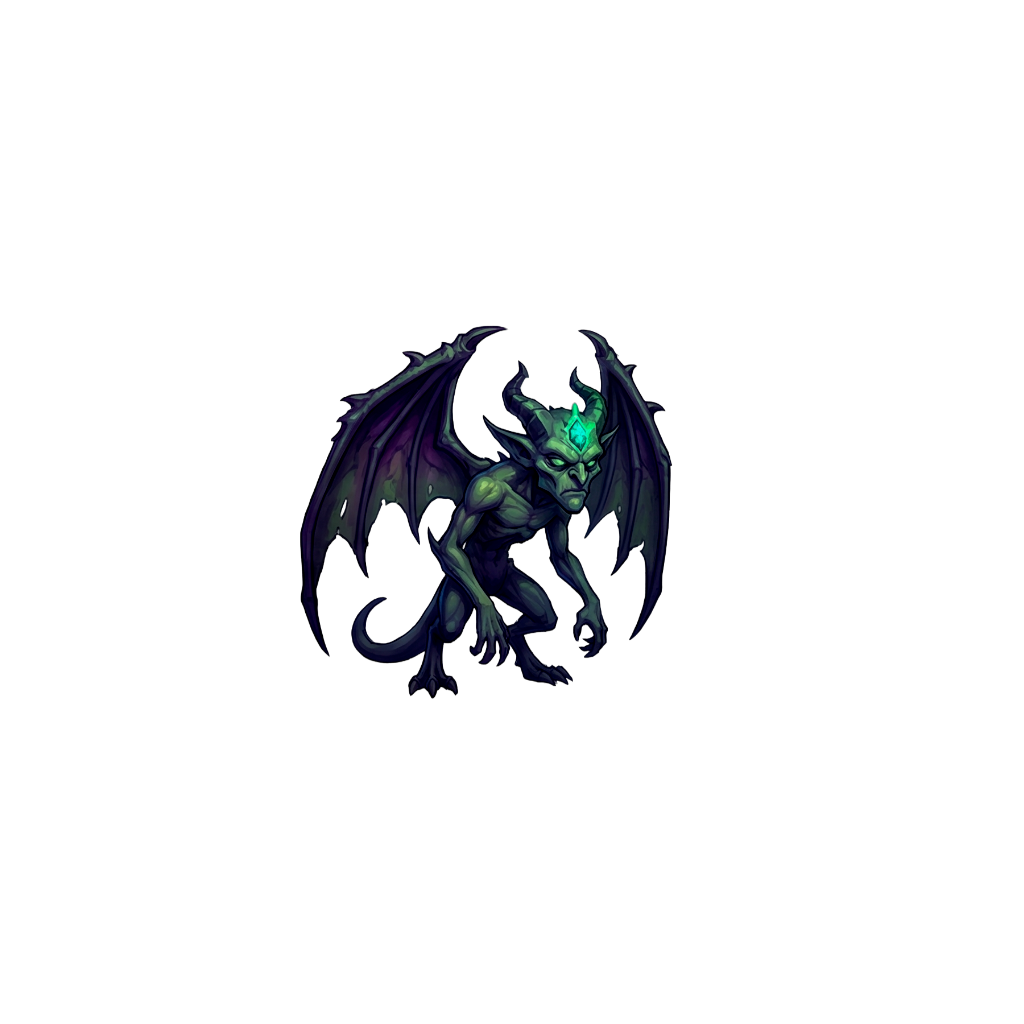
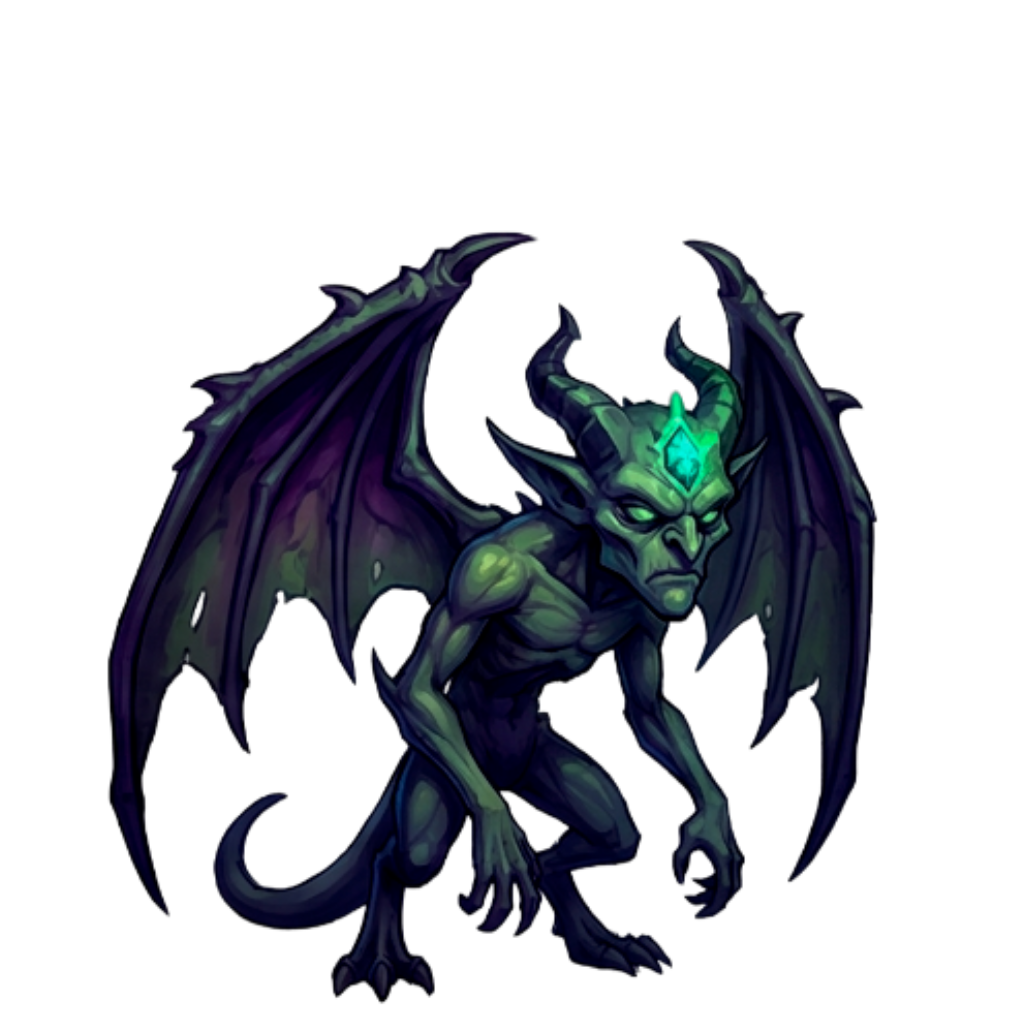
first pass at fixing size issue

Changed region(s): [[0.0938, 0.2188, 0.875, 0.9688], [0.1562, 0.875, 0.1875, 0.9062]]

diff --git a/src/main/resources/static/css/game.css b/src/main/resources/static/css/game.css
@@ -595,11 +595,9 @@ body::before{
 
 
 /* =========================================================
-   CREATURE + NEST (CHILD ONLY) — CLEAN + ALIGNED
-   Paste this where your current creature/nest section is.
+   CREATURE + NEST (CHILD ONLY) — CLEAN + STAGE-AWARE
    ========================================================= */
 
-/* Container that centers the creature stack */
 .creature-slot{
   position: absolute;
   inset: 0;
@@ -607,55 +605,56 @@ body::before{
   place-items: center;
   z-index: 5;
   pointer-events: none;
-
-  /* lifts whole stack a bit so it sits on the roof nicely */
-  padding-bottom: 40px; /* tweak 20–70 */
 }
 
-/* Creature */
+/* bob is on wrapper so transform is "owned" by bob */
+.creature-bob{
+  position: relative;
+  z-index: 6;
+  /* stage-wide lift control (works because it’s NOT transform) */
+  top: var(--creature-lift, 0px);
+}
+
+/* Sprite baseline */
 .creature-sprite{
-  width: 220px;          /* fixed baby size */
-  max-width: 70%;        /* still safe on small screens */
   height: auto;
   display: block;
   user-select: none;
   -webkit-user-drag: none;
 
+  /* keep this relative so we can nudge with top if ever needed */
   position: relative;
-  z-index: 6; /* above nest */
 
-  /* IMPORTANT: don't set transform here (bob animation uses transform) */
   filter:
     drop-shadow(0 18px 28px rgba(0,0,0,0.55))
     drop-shadow(0 0 18px rgba(155,92,255,0.18));
 }
 
+/* ---- Stage-specific sizing ---- */
+.creature--egg  { width: min(180px, 52%); }
+.creature--baby { width: min(220px, 60%); }
+.creature--child{ width: min(300px, 70%); }
+.creature--adult{ width: min(360px, 76%); }
 
-/* Nest wrapper (child only) — we position THIS, not the img */
+/* ---- Child nest placement ---- */
 .nest-wrap{
   position: absolute;
   left: 50%;
-
-  /* Put nest under the baby, not behind its head */
-  bottom: 1%;            /* tweak 2–10% */
+  bottom: 14%;               /* tweak 10–18% */
   transform: translateX(-50%);
-
-  width: min(320px, 74%); /* tweak 260–380px or % */
+  width: min(360px, 82%);
+  z-index: 4;
   display: grid;
   place-items: center;
 
-  z-index: 4;            /* behind creature */
-  pointer-events: none;
-
-  animation: nest-float 6.2s ease-in-out infinite;
-  will-change: transform, opacity, filter;
-
   filter:
-    drop-shadow(0 24px 28px rgba(0,0,0,0.55))
-    drop-shadow(0 0 26px rgba(36,214,255,0.14));
+    drop-shadow(0 26px 30px rgba(0,0,0,0.55))
+    drop-shadow(0 0 22px rgba(36,214,255,0.14));
+
+  animation: nest-float 5.2s ease-in-out infinite;
+  will-change: transform, opacity, filter;
 }
 
-/* Nest image */
 .nest-sprite{
   width: 100%;
   height: auto;
@@ -666,28 +665,28 @@ body::before{
   pointer-events: none;
 }
 
-/* Aura ring UNDER the nest */
+/* Magical aura ring under the nest */
 .nest-wrap::after{
   content:"";
   position:absolute;
   left: 50%;
-  bottom: -10%;
-  width: 72%;
-  height: 22%;
+  bottom: -8%;
+  width: 68%;
+  height: 18%;
   transform: translateX(-50%);
   border-radius: 999px;
-  background: radial-gradient(closest-side, rgba(155,92,255,0.38), transparent 72%);
-  filter: blur(10px);
+  background: radial-gradient(closest-side, rgba(155,92,255,0.35), transparent 70%);
+  filter: blur(8px);
   opacity: 0.75;
-  animation: aura-pulse 3.8s ease-in-out infinite;
+  animation: aura-pulse 3.6s ease-in-out infinite;
   pointer-events:none;
 }
 
-/* Sparkle dust around the nest */
+/* Sparkly dust around nest (CSS-only) */
 .nest-wrap::before{
   content:"";
   position:absolute;
-  inset: -22% -26%;
+  inset: -18% -22%;
   background:
     radial-gradient(circle at 18% 62%, rgba(255,255,255,0.55) 0 1px, transparent 3px),
     radial-gradient(circle at 34% 48%, rgba(36,214,255,0.45) 0 1px, transparent 3px),
@@ -700,29 +699,28 @@ body::before{
   pointer-events:none;
 }
 
-/* Optional: tiny "magic lift" WITHOUT fighting bob
-   (we use margin, not transform) */
-.stage .creature-slot .creature-sprite{
-  top: -55px; /* tweak raise creature height*/
-  margin-bottom: 5px; /* tweak 0–24 */
+/* ---- Child-only “sit in nest” lift ----
+   Because bob is on .creature-bob, this doesn't fight transform. */
+.creature--baby{
+  /* raise baby so it visually sits in nest */
+}
+.creature-slot .creature-bob{
+  --creature-lift: -24px; /* tweak -10 to -45 */
 }
 
 /* Animations */
 @keyframes nest-float{
-  0%, 100% { transform: translateX(-50%) translateY(0);    opacity: 0.95; }
+  0%, 100% { transform: translateX(-50%) translateY(0); opacity: 0.95; }
   50%      { transform: translateX(-50%) translateY(-6px); opacity: 1; }
 }
-
 @keyframes aura-pulse{
-  0%, 100% { transform: translateX(-50%) scale(1);    opacity: 0.60; }
-  50%      { transform: translateX(-50%) scale(1.10); opacity: 0.88; }
+  0%, 100% { transform: translateX(-50%) scale(1); opacity: 0.60; }
+  50%      { transform: translateX(-50%) scale(1.08); opacity: 0.85; }
 }
-
 @keyframes spark-drift{
-  0%, 100% { transform: translateY(2px);  opacity: 0.22; }
-  50%      { transform: translateY(-7px); opacity: 0.45; }
+  0%, 100% { transform: translateY(2px); opacity: 0.25; }
+  50%      { transform: translateY(-6px); opacity: 0.45; }
 }
-
 @media (prefers-reduced-motion: reduce){
   .nest-wrap,
   .nest-wrap::before,
@@ -730,6 +728,7 @@ body::before{
     animation:none;
   }
 }
+
 
 
 /* overlays above everything */

diff --git a/src/main/resources/templates/game.html b/src/main/resources/templates/game.html
@@ -200,11 +200,19 @@
                         <img class="nest-sprite" th:src="@{/images/scene/nest.png}" alt="">
                     </div>
 
-                    <!-- Creature -->
-                    <img class="creature-sprite bob"
-                         th:src="@{${image_path}}"
-                         alt="Your gargoyle">
+                    <!-- Creature bob wrapper (bob goes here, NOT on the img) -->
+                    <div class="creature-bob bob">
+                        <img class="creature-sprite"
+                             th:src="${image_path}"
+                             th:classappend="${gargoyle.age < 1} ? ' creature--egg'
+           : (${gargoyle.age < 2} ? ' creature--baby'
+           : (${gargoyle.age < 3} ? ' creature--child'
+           : ' creature--adult'))"
+                             alt="Your gargoyle">
+                    </div>
+
                 </div>
+
 
                 <!-- Overlays -->
                 <p class="overlay overlay--left" th:if="${gargoyle.hunger < 50}">

diff --git a/src/main/java/com/example/tama_gargoyles/service/EvolutionService.java b/src/main/java/com/example/tama_gargoyles/service/EvolutionService.java
@@ -62,7 +62,7 @@ public class EvolutionService {
         }else if(g.getType() == Gargoyle.Type.GOOD && Objects.equals(g.getEvolutionType(), "Speed")){
             return "/images/gargoyle/Good-Speed-The-Skyrunner.png";
         }else{
-            return "/images/gargoyle/adult-with-base.png";
+            return "/images/gargoyle/happy-neutral-adult.png";
         }
 
     }
